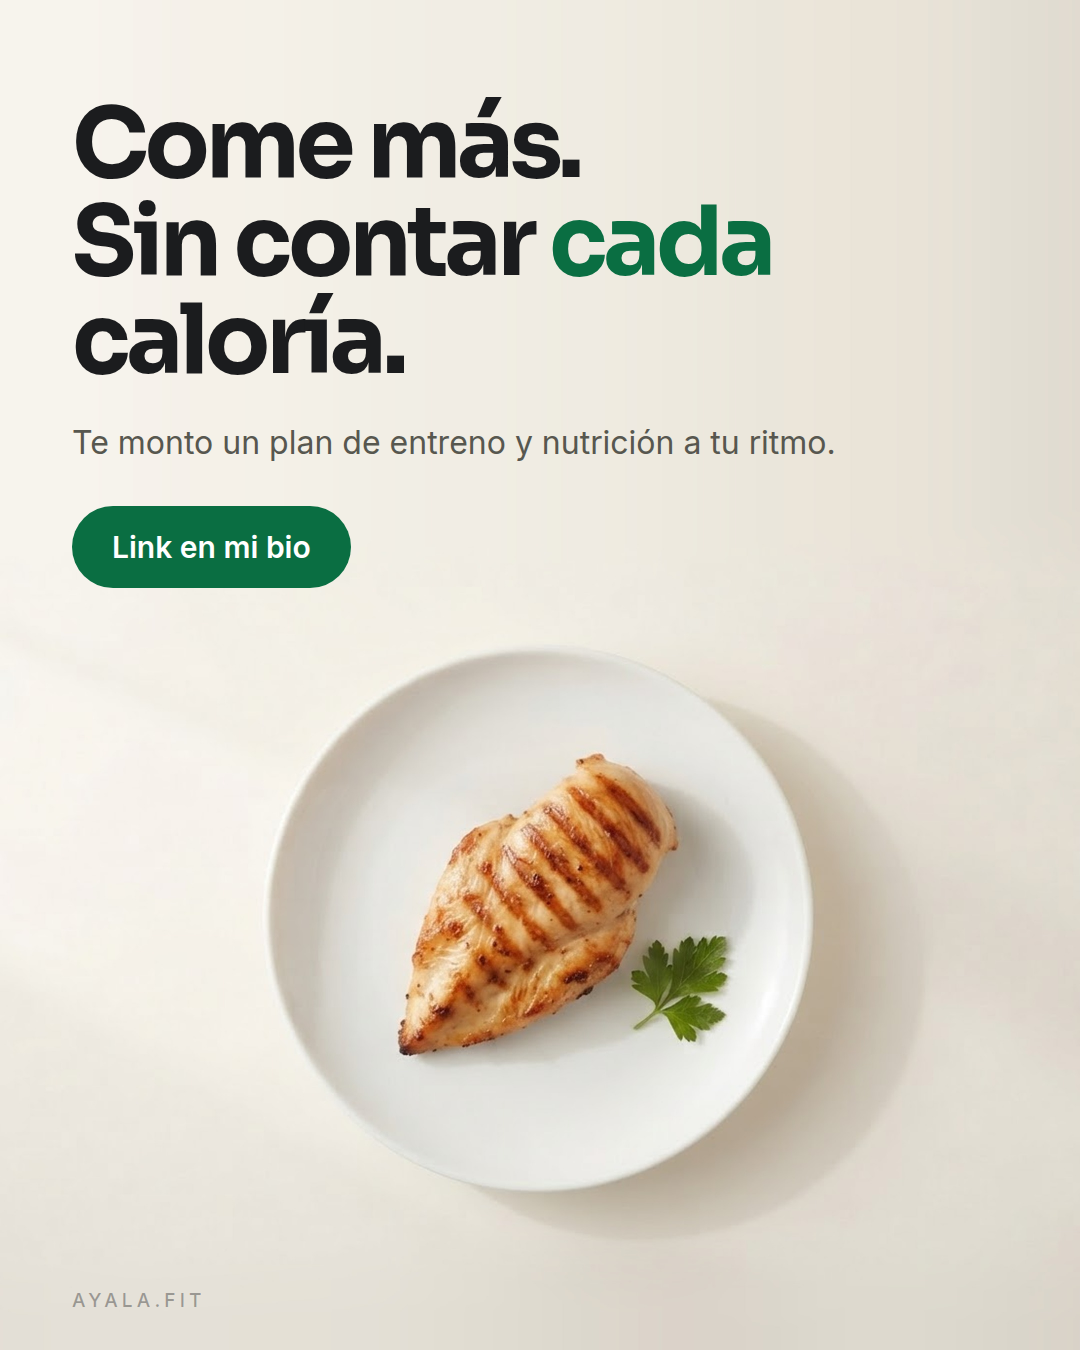
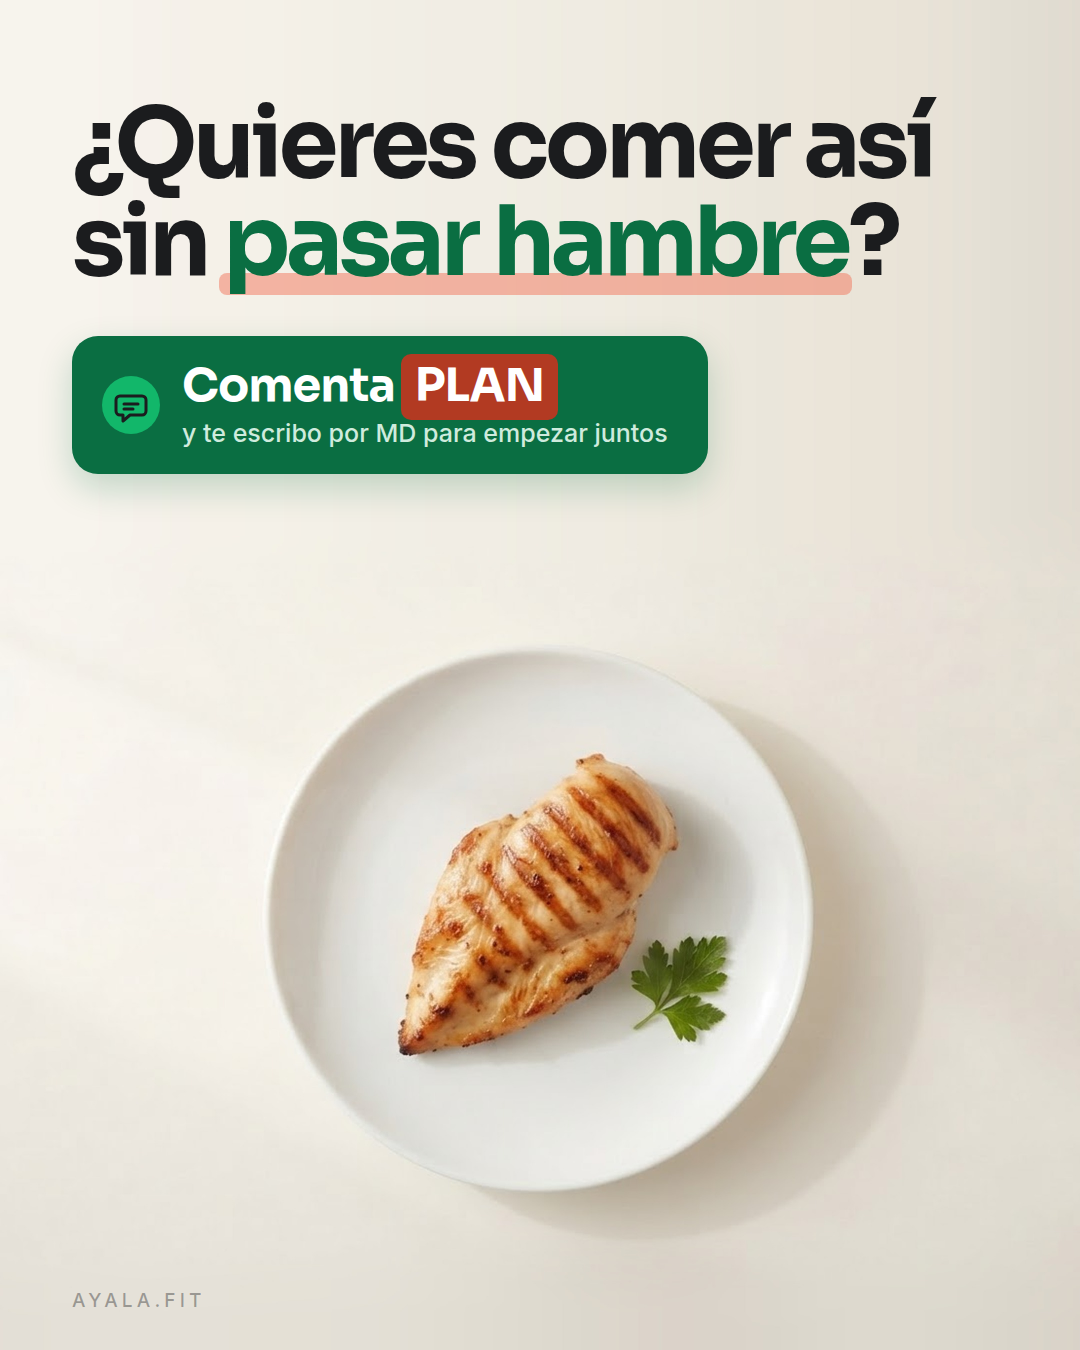
Carousel: brand colors and comment-to-DM call to action
Claude-Session: https://claude.ai/code/session_01ByNJ1snhd2fQKrJs8oPBnZ

Changed region(s): [[0.0611, 0.0622, 0.8861, 0.4356]]

diff --git a/content/carruseles/100-calorias/README.md b/content/carruseles/100-calorias/README.md
@@ -1,6 +1,6 @@
 # Carrusel — "Así se ven 100 calorías"
 
-8 slides 1080×1350 (4:5) en `png/`. Fotos a sangre ocupando toda la slide, texto mínimo encima y marca discreta (`ayala.fit` abajo a la izquierda).
+8 slides 1080×1350 (4:5) en `png/`. Fotos a sangre ocupando toda la slide, texto mínimo encima y marca discreta (`ayala.fit` abajo a la izquierda). Colores de marca: coral = poco volumen, verde = mucho volumen.
 
 | # | Slide |
 |---|---|
@@ -11,7 +11,7 @@
 | 5 | 240 ml de refresco / 3 tazas de palomitas |
 | 6 | 85 g de pollo / 6 claras (≈20 g de proteína cada uno) |
 | 7 | No va de prohibir. Va de elegir. |
-| 8 | CTA → link en bio |
+| 8 | CTA: comenta «PLAN» y te escribo por MD |
 
 Cantidades aproximadas (tablas BEDCA/USDA, redondeadas).
 
@@ -28,10 +28,10 @@ node content/carruseles/100-calorias/generar.mjs          # → png/
 
 ## Pie de post
 
-> ¿Sabías que 100 calorías pueden ser una cucharada de aceite… o un bol entero de fresas? 🍓
+> 100 calorías pueden ser una cucharada de aceite… o un bol entero de fresas 🍓
 >
 > No va de prohibir nada. Va de saber qué te llena más y elegir con cabeza.
 >
-> Guárdalo para tu próxima compra y dime: ¿cuál te ha sorprendido más? 👇
+> ¿Quieres aprender a comer así sin pasar hambre? Comenta PLAN y te escribo por MD para empezar juntos 💪
 >
-> ¿Quieres un plan hecho a tu medida? Link en mi bio 💪
+> (Guárdalo para tu próxima compra.)
